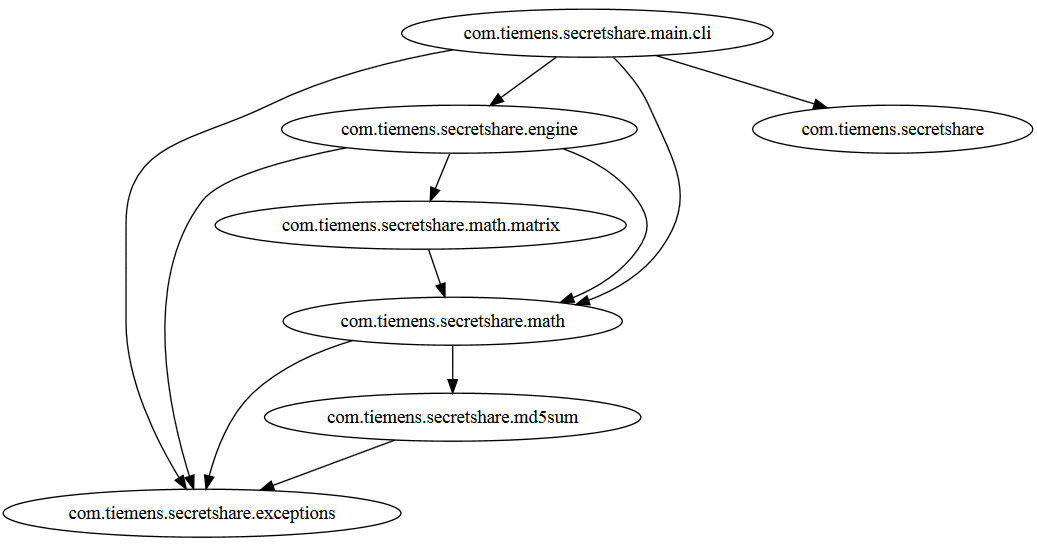
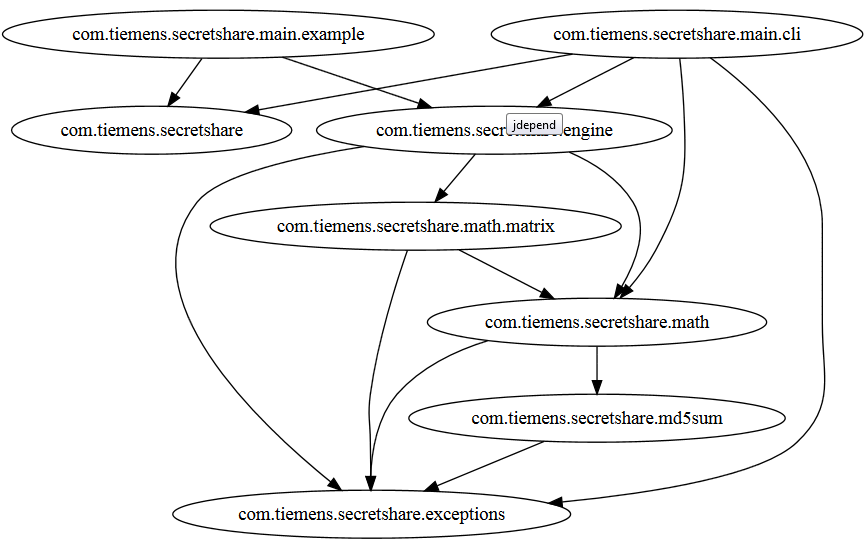
archicture driven fixes

diff --git a/src/main/java/com/tiemens/secretshare/math/matrix/NumberSimplex.java b/src/main/java/com/tiemens/secretshare/math/matrix/NumberSimplex.java
@@ -22,6 +22,8 @@ import java.util.HashMap;
 import java.util.List;
 import java.util.Map;
 
+import com.tiemens.secretshare.exceptions.SecretShareException;
+
 
 public class NumberSimplex<E extends Number>
 {
@@ -98,7 +100,7 @@ public class NumberSimplex<E extends Number>
         final int width = mArrayhide[0].length;
         if (height != width)
         {
-            throw new ArithmeticException("h=" + height + " w=" + width + " must match");
+            throw new SecretShareException("h=" + height + " w=" + width + " must match");
         }
 
         final int numberOfPivots = width;
@@ -128,7 +130,7 @@ public class NumberSimplex<E extends Number>
         }
         else
         {
-            throw new ArithmeticException("Could not find answer at index " + i + " answers=" + mAnswers);
+            throw new SecretShareException("Could not find answer at index " + i + " answers=" + mAnswers);
         }
     }
 
@@ -181,14 +183,14 @@ public class NumberSimplex<E extends Number>
         {
             if (v.isVariable())
             {
-                throw new ArithmeticException("Not a number: " + v);
+                throw new SecretShareException("Not a number: " + v);
             }
         }
         for (NumberOrVariable<E> v : sides)
         {
             if (v.isNumber())
             {
-                throw new ArithmeticException("Not a variable: " + v);
+                throw new SecretShareException("Not a variable: " + v);
             }
         }
         final int height = array.length;
@@ -394,7 +396,7 @@ public class NumberSimplex<E extends Number>
         {
             if (in == null)
             {
-                throw new IllegalArgumentException("cannot be null");
+                throw new SecretShareException("cannot be null");
             }
             number = in;
         }
@@ -402,7 +404,7 @@ public class NumberSimplex<E extends Number>
         {
             if (name == null)
             {
-                throw new IllegalArgumentException("cannot be null");
+                throw new SecretShareException("cannot be null");
             }
             variable = name;
         }
@@ -559,7 +561,7 @@ public class NumberSimplex<E extends Number>
                 }
                 else
                 {
-                    throw new ArithmeticException("Programmer error");
+                    throw new SecretShareException("Programmer error");
                 }
                 //System.out.println("h=" + height + " w=" + width +
                 // " r=" + r + " s=" + s + " val=" + ret[r][s]);

diff --git a/src/main/java/com/tiemens/secretshare/math/matrix/NumberMatrix.java b/src/main/java/com/tiemens/secretshare/math/matrix/NumberMatrix.java
@@ -18,6 +18,8 @@ package com.tiemens.secretshare.math.matrix;
 
 import java.io.PrintStream;
 
+import com.tiemens.secretshare.exceptions.SecretShareException;
+
 public abstract class NumberMatrix<E extends Number>
 {
     protected E[][] matrix;
@@ -111,16 +113,16 @@ public abstract class NumberMatrix<E extends Number>
     {
         if ((rowsandcols.length % j) != 0)
         {
-            throw new ArithmeticException("array size must be evenly divisible by j(" + j + ")");
+            throw new SecretShareException("array size must be evenly divisible by j(" + j + ")");
         }
         int i = rowsandcols.length / j;
         if (i != getHeight())
         {
-            throw new ArithmeticException("refusing to resize height from " + getHeight() + " to " + i);
+            throw new SecretShareException("refusing to resize height from " + getHeight() + " to " + i);
         }
         if (j != getWidth())
         {
-            throw new ArithmeticException("refusing to resize width from " + getWidth() + " to " + j);
+            throw new SecretShareException("refusing to resize width from " + getWidth() + " to " + j);
         }
         for (int r = 0; r < i; r++)
         {
@@ -144,7 +146,7 @@ public abstract class NumberMatrix<E extends Number>
         if ((matrix1.length != matrix2.length) ||
             (matrix1[0].length != matrix2[0].length))
         {
-            throw new RuntimeException("The matrices do not have the same size");
+            throw new SecretShareException("The matrices do not have the same size");
         }
 
         E[][] result = //(E[][])new Number[matrix1.length][matrix1[0].length];
@@ -172,7 +174,7 @@ public abstract class NumberMatrix<E extends Number>
         // Check bounds
         if (matrix1[0].length != matrix2.length)
         {
-            throw new RuntimeException("The matrices do not have compatible size");
+            throw new SecretShareException("The matrices do not have compatible size");
         }
 
         // Create result matrix

diff --git a/src/main/java/com/tiemens/secretshare/main/example/TicketTwoMain.java b/src/main/java/com/tiemens/secretshare/main/example/TicketTwoMain.java
@@ -23,6 +23,7 @@ import java.util.Arrays;
 import java.util.Collections;
 import java.util.List;
 
+import com.tiemens.secretshare.BuildVersion;
 import com.tiemens.secretshare.engine.SecretShare;
 import com.tiemens.secretshare.engine.SecretShare.ShareInfo;
 
@@ -67,6 +68,7 @@ public final class TicketTwoMain
                 "1234567890123456789012345678901234567890123456789Z";  // "Z" not "0"
         }
 
+        System.out.println("TicketTwoMain, version=" + BuildVersion.getUiVersion());
         System.out.println("Secret as string: " + secret);
         System.out.println("Secret as number: " + stringToBigInteger(secret));
         final int n = 6, k = 5;

diff --git a/docs/Architecture.md b/docs/Architecture.md
@@ -5,10 +5,15 @@ The package dependencies in secretshare:
 ![Package Digraph](images/jdepend-webgraph.png)
 
 Some notes:
- 1. com.tiemens.secretshare - looks odd out to the side.  This package only has BuildVersion.java, which seems like a natural place for this class.  It just makes the diagram look a bit strange.
- 2. com.tiemens.secretshare.math - would have been better if split into com.tiemens.secretshare.math.types and com.tiemens.secretshare.math.engine.  As it is, it looks like ".math.matrix" is a higher level than ".math".
- 3. com.tiemens.secretshare.math - missing link to ".exceptions", reveals an implementation flaw in NaumberMatrix.java.  There are "throw new ArithmeticException()" calls that should be "throw new SecretShareException()", as the Architecture Goals state.
- 4. com.tiemens.secretshare.main.test - contains only "TicketTwoMain.java" (ticket two is a reference to the second GitHub issue).  The name ".main.test" is incorrect - it should be ".main.example"
+ 1. com.tiemens.secretshare - looks odd as a dead-end.  This package only has BuildVersion.java, which seems like a natural place for this class.  It just makes the diagram look a bit strange.
+
+Some To Do Items:
+ 1. com.tiemens.secretshare.math - would have been better if split into com.tiemens.secretshare.math.types and com.tiemens.secretshare.math.engine.  As it is, it looks like ".math.matrix" is a higher level than ".math".
+ 1. Logger - since java.util.Logger exists now, add logging to this library.
+
+
+2018/Oct - fixed -  com.tiemens.secretshare.main.test - contains only "TicketTwoMain.java" (ticket two is a reference to the second GitHub issue).  The name ".main.test" is incorrect - it should be ".main.example" 
+2018/Oct - fixed -  com.tiemens.secretshare.math.matrix - missing link to ".exceptions", reveals an implementation flaw in NumberMatrix.java.  There are "throw new ArithmeticException()" calls that should be "throw new SecretShareException()", as the Architecture Goals state.
 
 Code
 ====
@@ -22,13 +27,13 @@ java -cp $(find $HOME/.gradle/caches -name "jdepend-2.9.1.jar") jdepend.swingui.
 
 Architecture Goals
 ==================
- 1. Single "library" exception SecretShareException
+ 1. Single "library" exception SecretShareException\
    This allows callers to easily isolate SecretShare errors.
    Especially useful for [N-version programming](https://en.wikipedia.org/wiki/N-version_programming) where SecretShare is one of the implementation choices, and the goal is to ignore SecretShare-specific exceptions (because there are N-1 other implementations), but not use "catch (Exception e)", since that is over-capturing potential system errors.
-2.  No compile dependencies on 3rd-party libraries
+2.  No compile dependencies on 3rd-party libraries\
    Because 3rd-party libraries hinder use of a library, this library shall have no 3rd-party dependencies in order to run.
    Test dependencies are allowed (JUnit, JDepend)
-3.  Logging
+3.  Logging\
    Because of "No compile dependencies", there is very little logging implemented in this library.
    Because this library pre-dates java.util.logging.Logger, it does not use this class.
    However, as an architectural goal, it should be refactored to use java.util.logging.Logger
